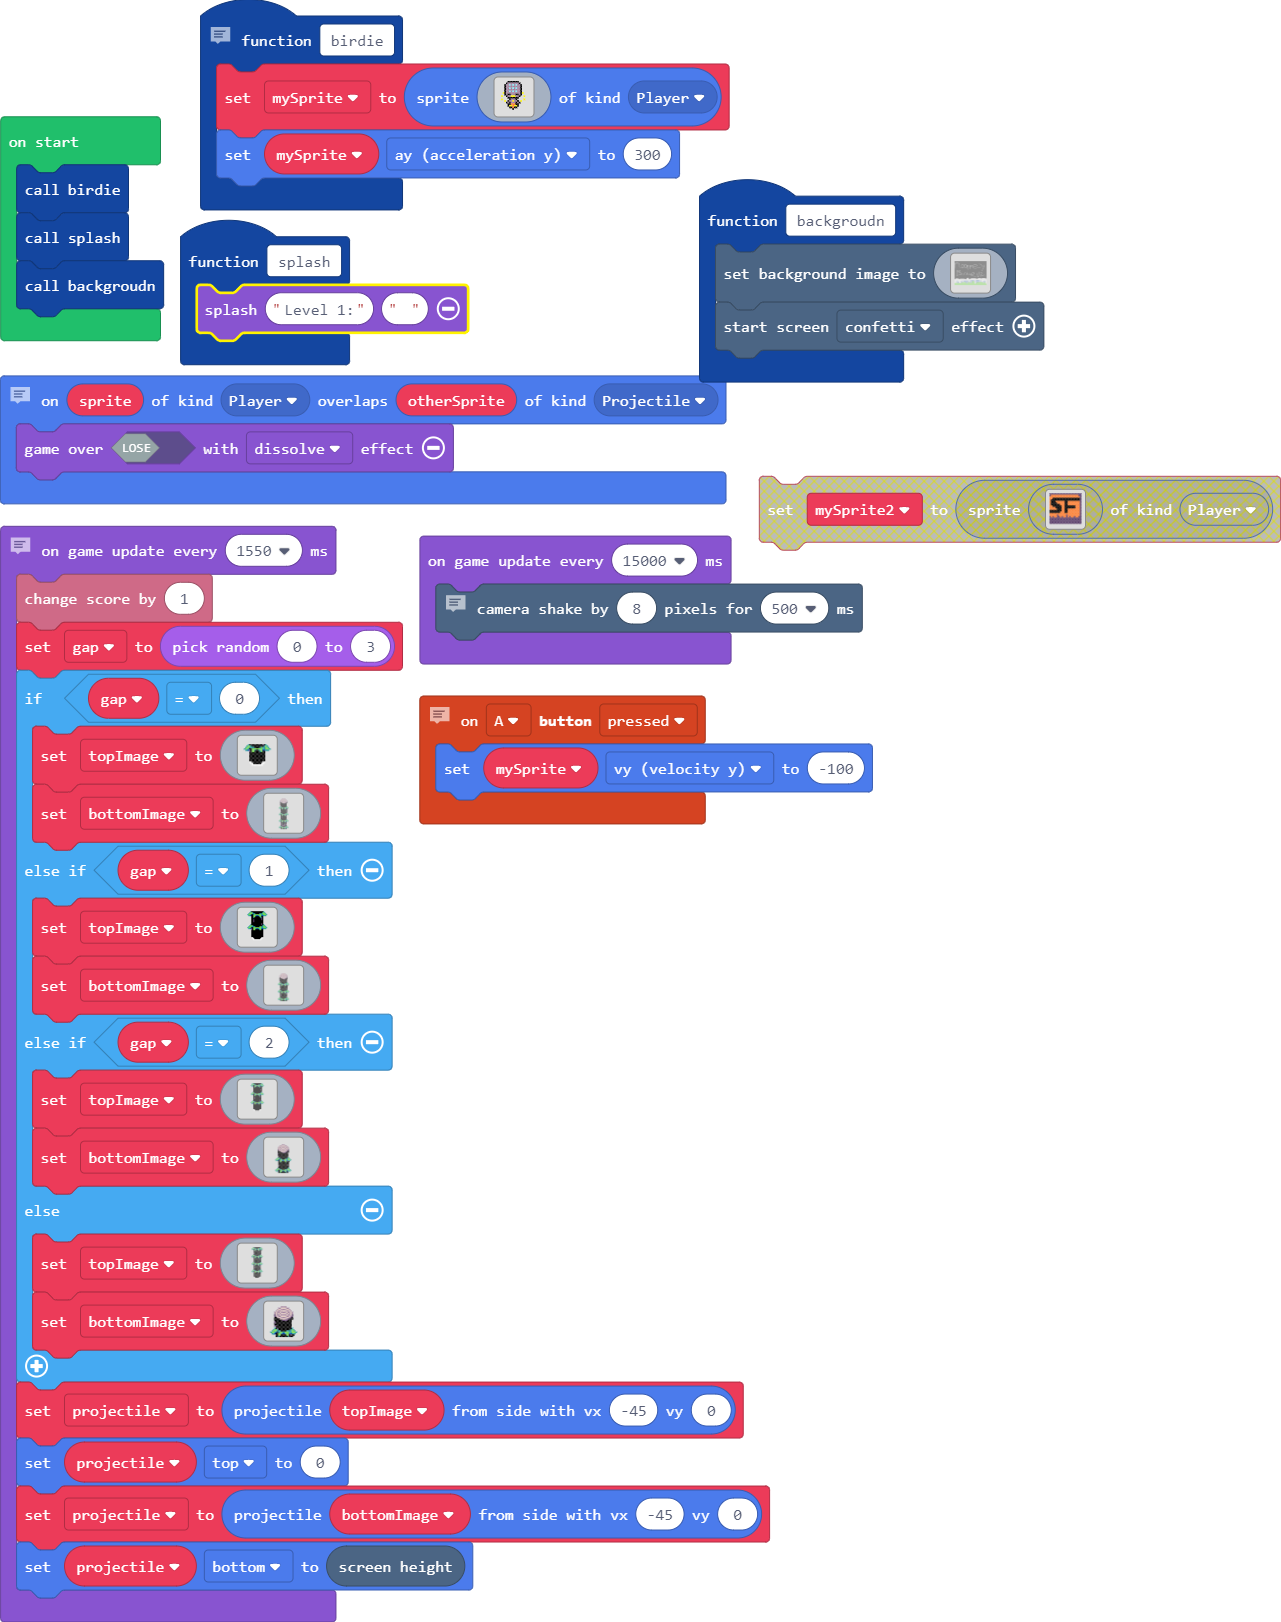
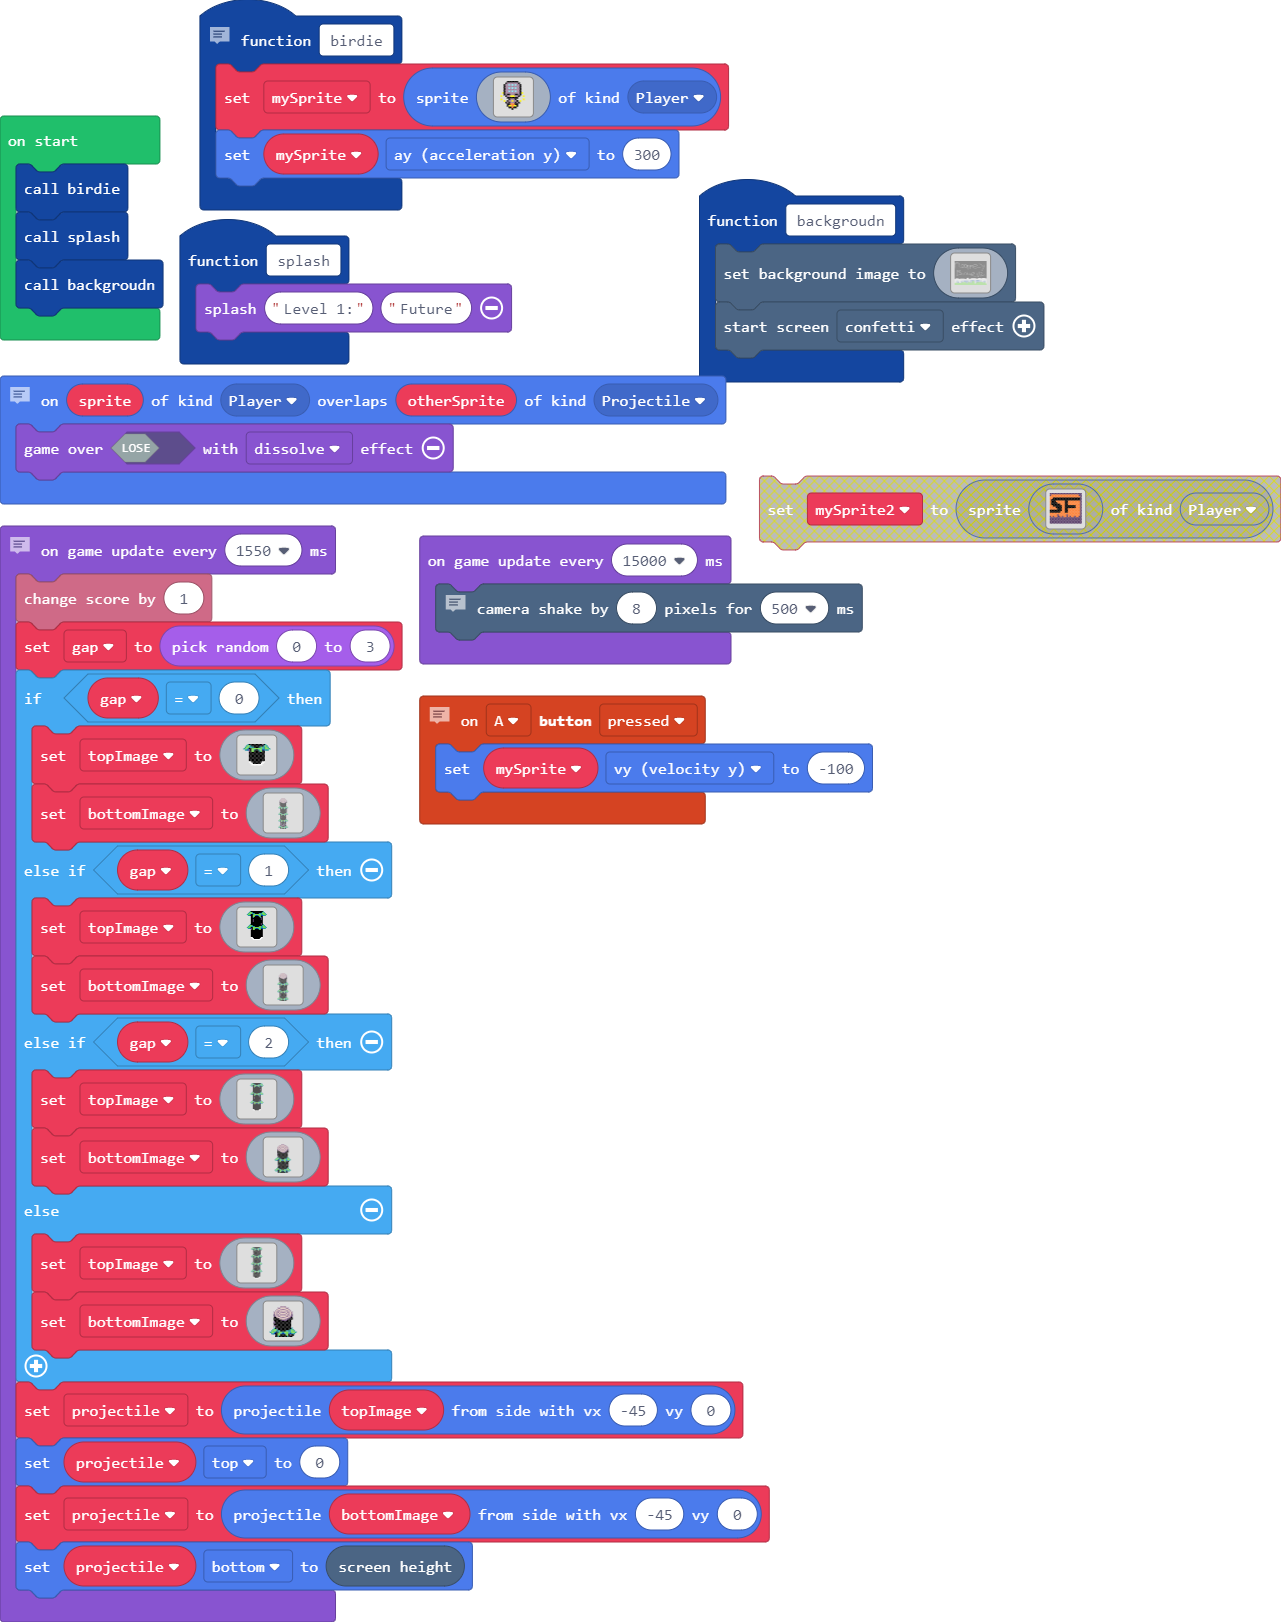
Update main.blocks, main.ts

diff --git a/main.ts b/main.ts
@@ -34,7 +34,7 @@ controller.A.onEvent(ControllerButtonEvent.Pressed, function () {
     mySprite.vy = -100
 })
 function splash () {
-    game.splash("Level 1:", "")
+    game.splash("Level 1:", "Future")
 }
 function backgroudn () {
     scene.setBackgroundImage(img`
